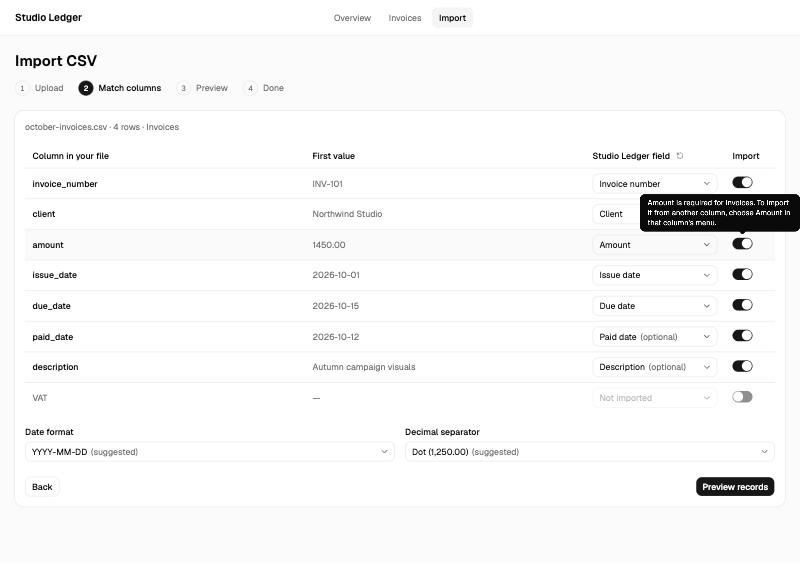
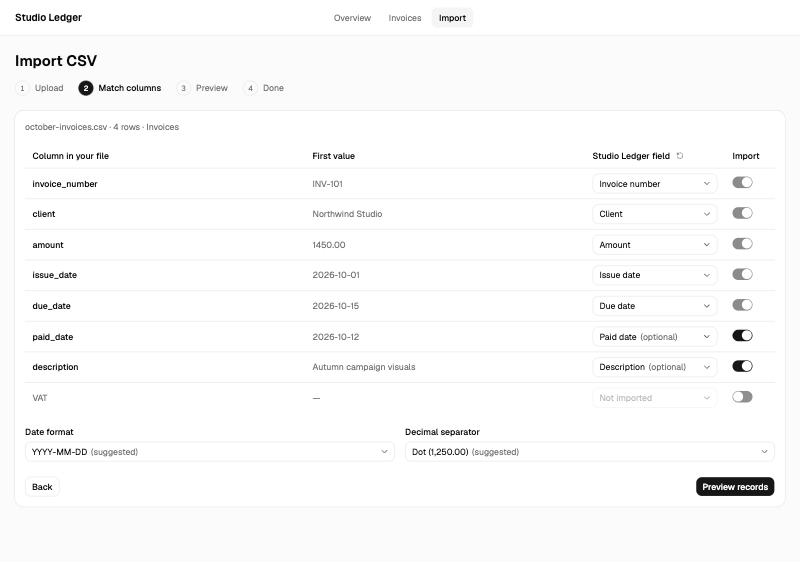
Show locked required-field switches on at reduced opacity
They stay on but fade to 50%, the opacity shadcn uses for disabled
controls, so they read as on and locked at the same time.

Changed region(s): [[0.7812, 0.302, 1.0, 0.5737]]

diff --git a/src/components/import/match-step.tsx b/src/components/import/match-step.tsx
@@ -158,9 +158,9 @@ export function MatchStep({
                 </TableCell>
                 <TableCell>
                   {required ? (
-                    // Locked on: a required field has to be imported. It looks on but can't be
-                    // switched off; aria-disabled keeps it focusable so the tooltip can say why.
-                    // Its field menu still works.
+                    // Locked on: a required field has to be imported. It shows on, at the reduced
+                    // opacity shadcn uses for disabled controls; aria-disabled keeps it focusable
+                    // so the tooltip can say why. Its field menu still works.
                     <Tooltip>
                       {/* A wrapper as the trigger, so the tooltip's data-state doesn't replace the switch's. */}
                       <TooltipTrigger asChild>
@@ -169,7 +169,7 @@ export function MatchStep({
                             checked
                             aria-disabled
                             aria-label={`Import ${name(column)}`}
-                            className="cursor-not-allowed"
+                            className="cursor-not-allowed opacity-50"
                             onClick={(e) => e.preventDefault()}
                           />
                         </span>
